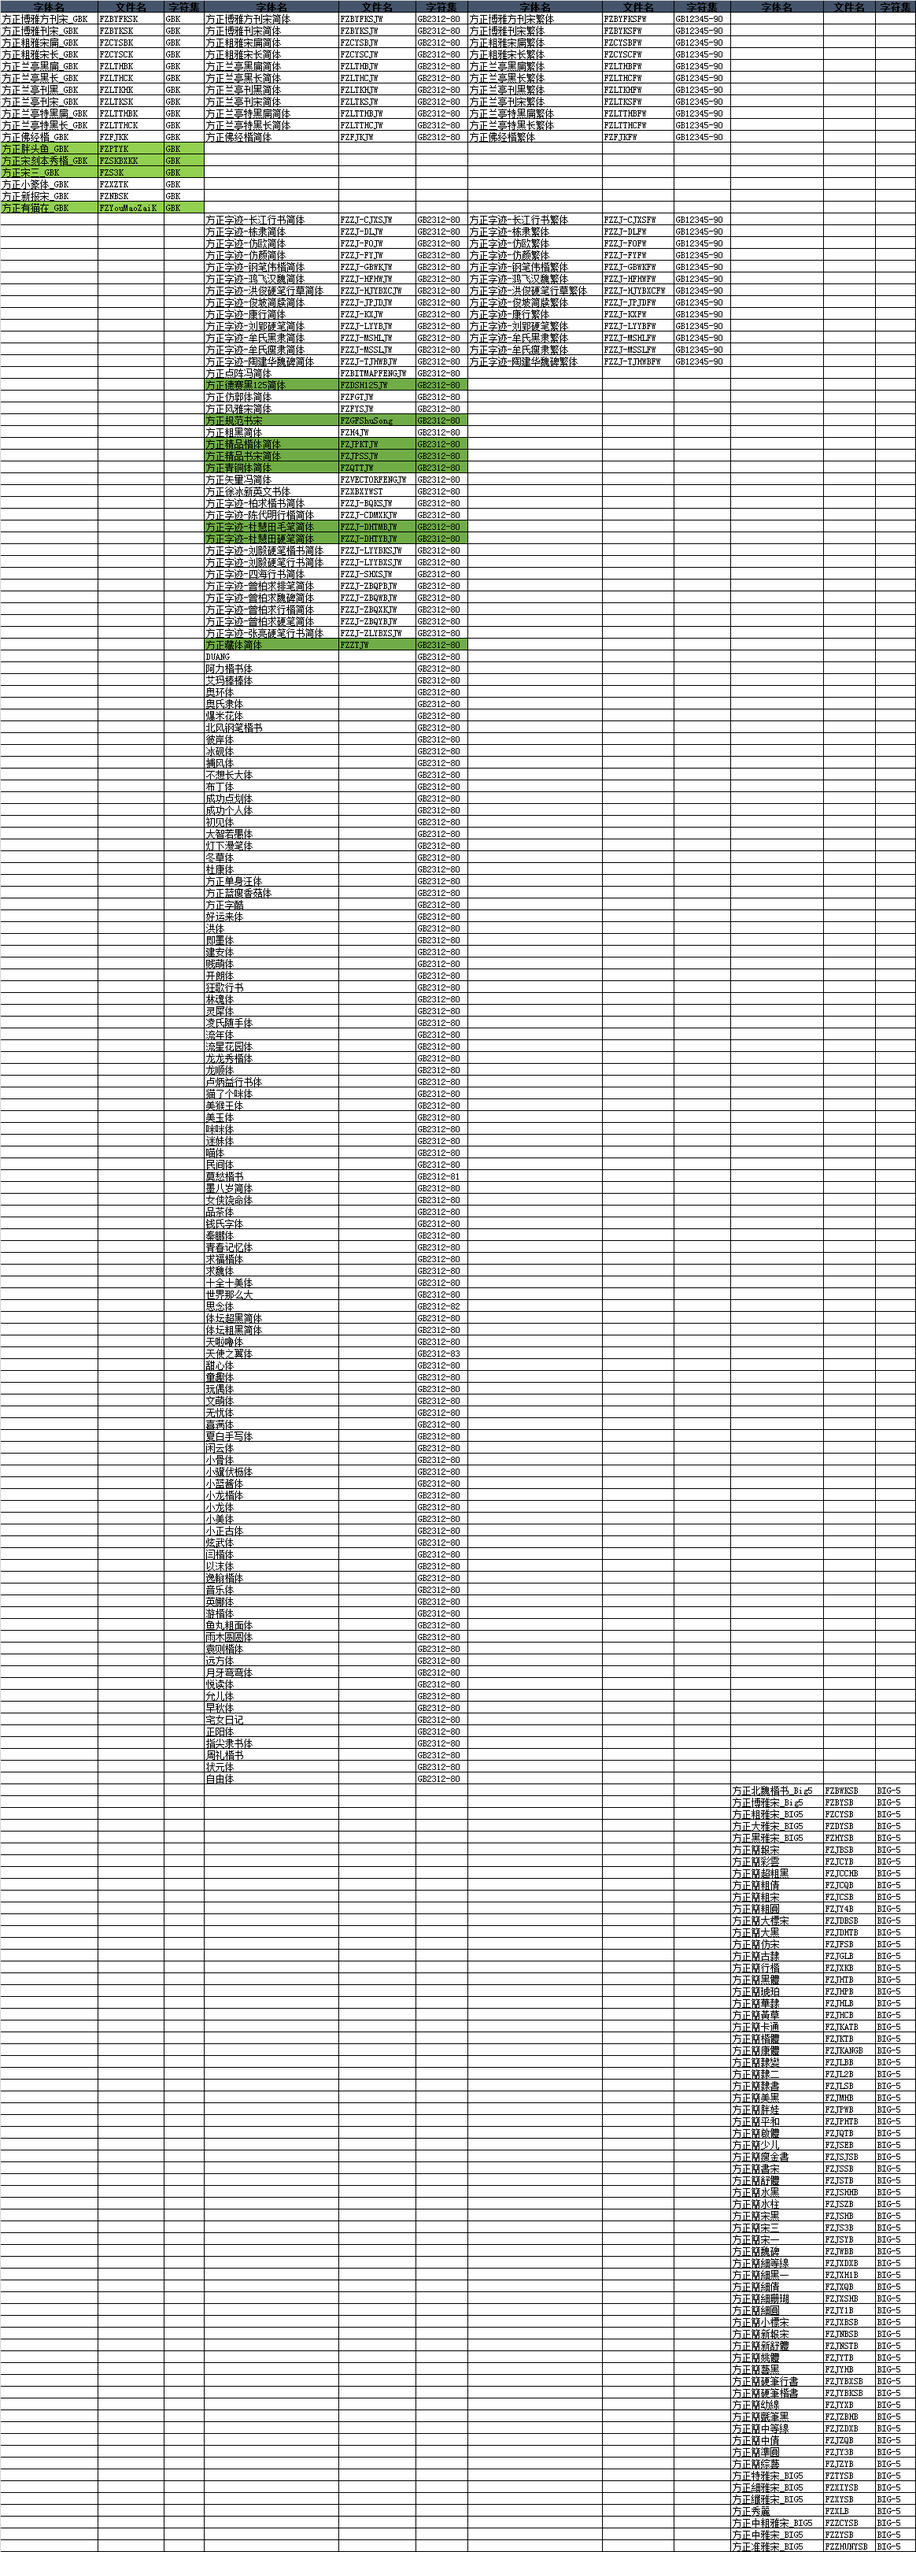
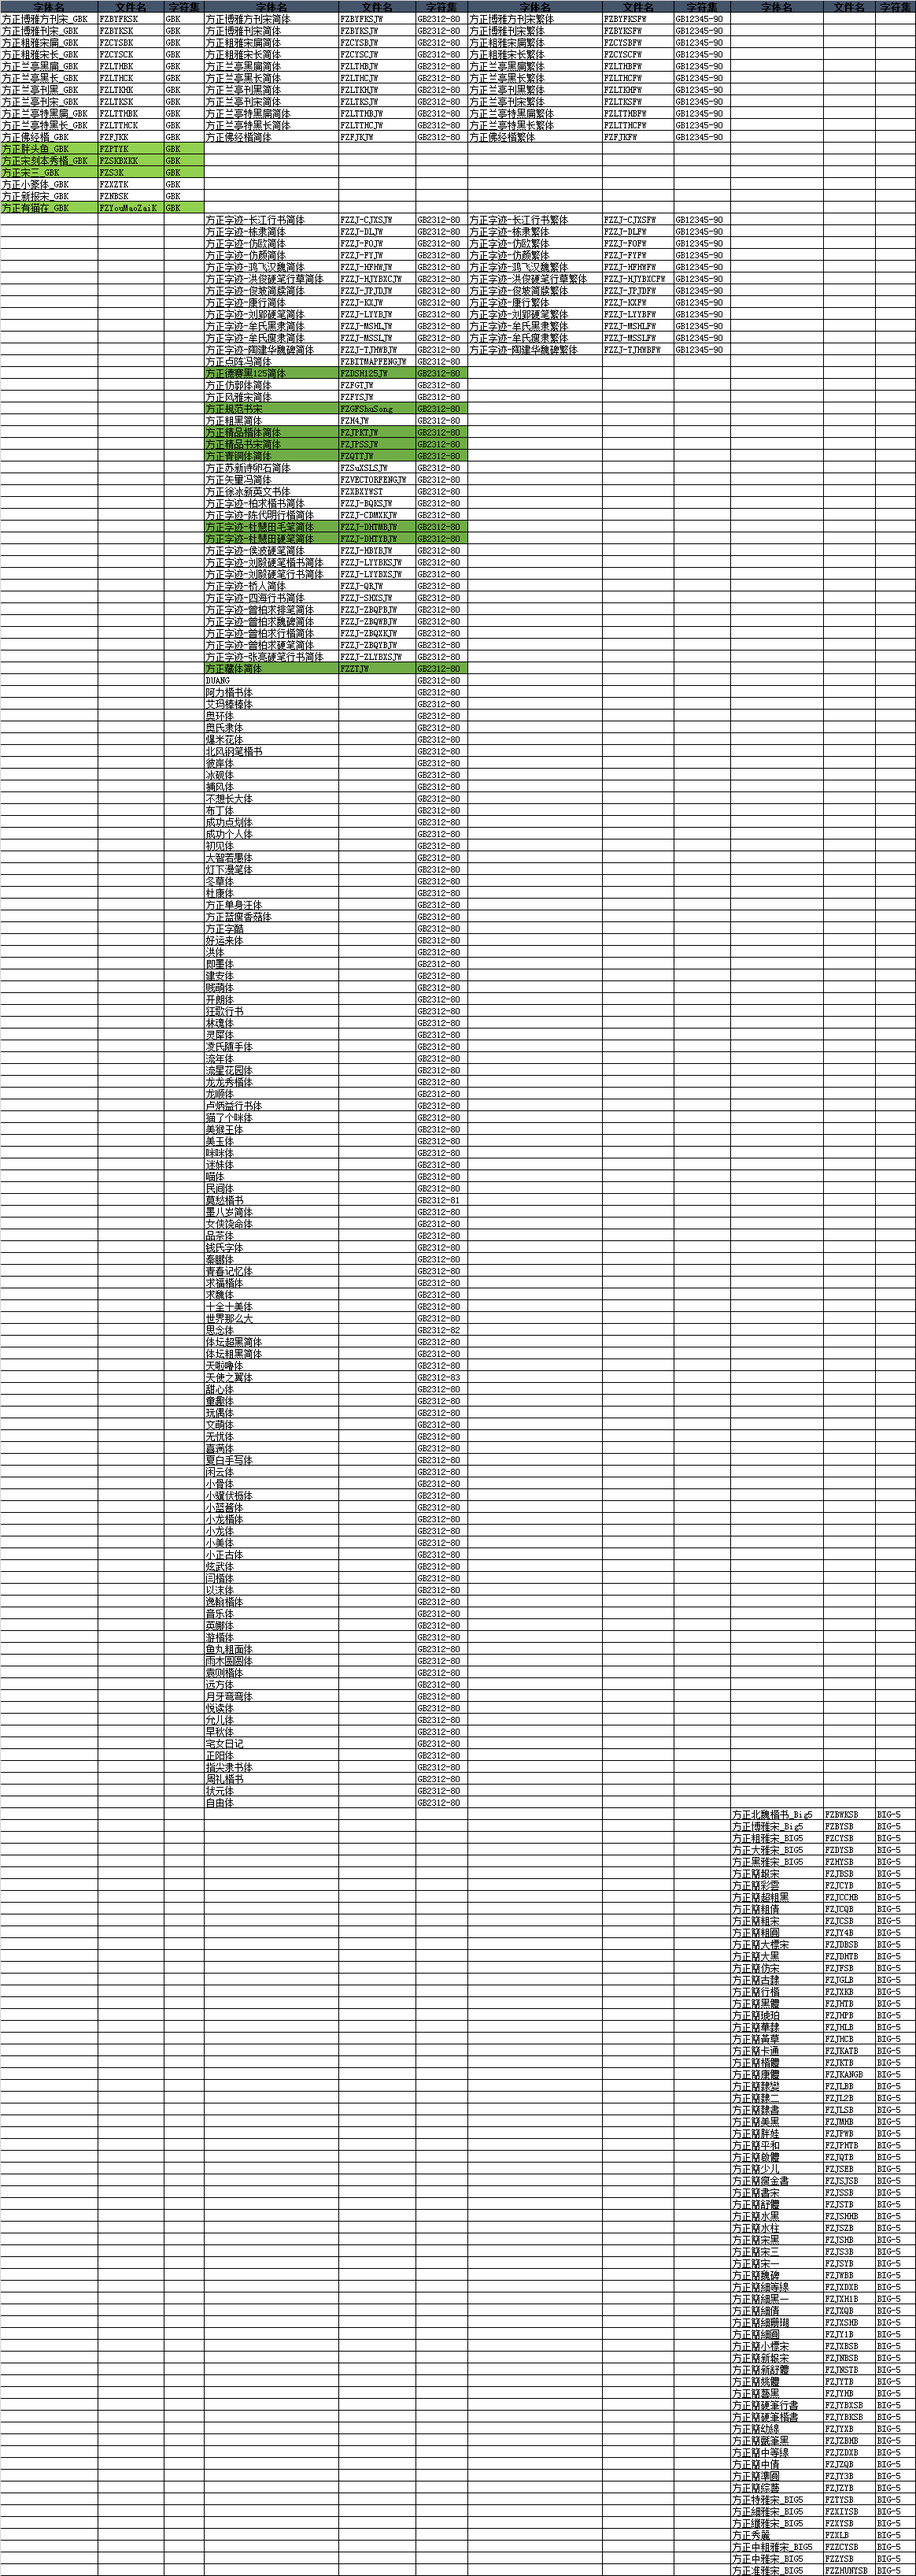
字体上架:方正字迹-钢笔伟楷繁体/方正字迹-钢笔伟楷简体/方正字迹-刘鑫标犷繁体/方正字迹-刘鑫标犷简体

Changed region(s): [[0.0, 0.0, 1.0, 0.9972]]

diff --git a/README.md b/README.md
@@ -12,12 +12,12 @@
 
 方正字体样张:[http://shop.foundertype.com/index.php/Index/downSample.html](http://shop.foundertype.com/index.php/Index/downSample.html)
 
-目前官方商城在售字体684种：
+目前官方商城在售字体688种：
 
 | 字符集     | 字体数     |
 |------------|------------|
-| GB2312-80  | 361        |
-| GB12345-90 | 166        |
+| GB2312-80  | 363        |
+| GB12345-90 | 168        |
 | GBK        | 113        |
 | BIG-5      | 43         |
 |GB18030-2000| 1          |
@@ -207,11 +207,13 @@
 | 方正字迹-典雅楷体繁体       | FZZJ-DYKTFW        | GB12345-90 |
 | 方正字迹-杜慧田草书繁体     | FZZJ-DHTCSFW       | GB12345-90 |
 | 方正字迹-度知度体繁体       | FZZJ-DZDTFW        | GB12345-90 |
+| 方正字迹-钢笔伟楷繁体       | FZZJ-GBWKFW        | GB12345-90 |
 | 方正字迹-管峻楷书繁体       | FZZJ-GJKSFW        | GB12345-90 |
 | 方正字迹-海体楷书繁体       | FZZJ-HTKSFW        | GB12345-90 |
 | 方正字迹-豪放行书繁体       | FZZJ-HFXSFW        | GB12345-90 |
 | 方正字迹-黎凡行书繁体       | FZZJ-LFXSFW        | GB12345-90 |
 | 方正字迹-李太平根隶繁体     | FZZJ-LTPGLFW       | GB12345-90 |
+| 方正字迹-刘鑫标犷繁体       | FZZJ-LXBGFW        | GB12345-90 |
 | 方正字迹-吕建德行楷繁体     | FZZJ-LJDXKFW       | GB12345-90 |
 | 方正字迹-吕建德魏碑繁体     | FZZJ-LJDWBFW       | GB12345-90 |
 | 方正字迹-佩安硬笔繁体       | FZZJ-PANYBFW       | GB12345-90 |
@@ -560,12 +562,14 @@
 | 方正字迹-度知度体简体       | FZZJ-DZDTJW        | GB2312-80  |
 | 方正字迹-冯金城简体         | FZZJ-FJCJW         | GB2312-80  |
 | 方正字迹-佛君包装简体       | FZZJ-FJBZJW        | GB2312-80  |
+| 方正字迹-钢笔伟楷简体       | FZZJ-GBWKJW        | GB2312-80  |
 | 方正字迹-管峻楷书简体       | FZZJ-GJKSJW        | GB2312-80  |
 | 方正字迹-海体楷书简体       | FZZJ-HTKSJW        | GB2312-80  |
 | 方正字迹-豪放行书简体       | FZZJ-HFXSJW        | GB2312-80  |
 | 方正字迹-老潘硬笔简体       | FZZJ-LPYBJW        | GB2312-80  |
 | 方正字迹-黎凡行书简体       | FZZJ-LFXSJW        | GB2312-80  |
 | 方正字迹-李太平根隶简体     | FZZJ-LTPGLJW       | GB2312-80  |
+| 方正字迹-刘鑫标犷简体       | FZZJ-LXBGJW        | GB2312-80  |
 | 方正字迹-吕建德行楷简体     | FZZJ-LJDXKJW       | GB2312-80  |
 | 方正字迹-吕建德魏碑简体     | FZZJ-LJDWBJW       | GB2312-80  |
 | 方正字迹-佩安硬笔简体       | FZZJ-PANYBJW       | GB2312-80  |
